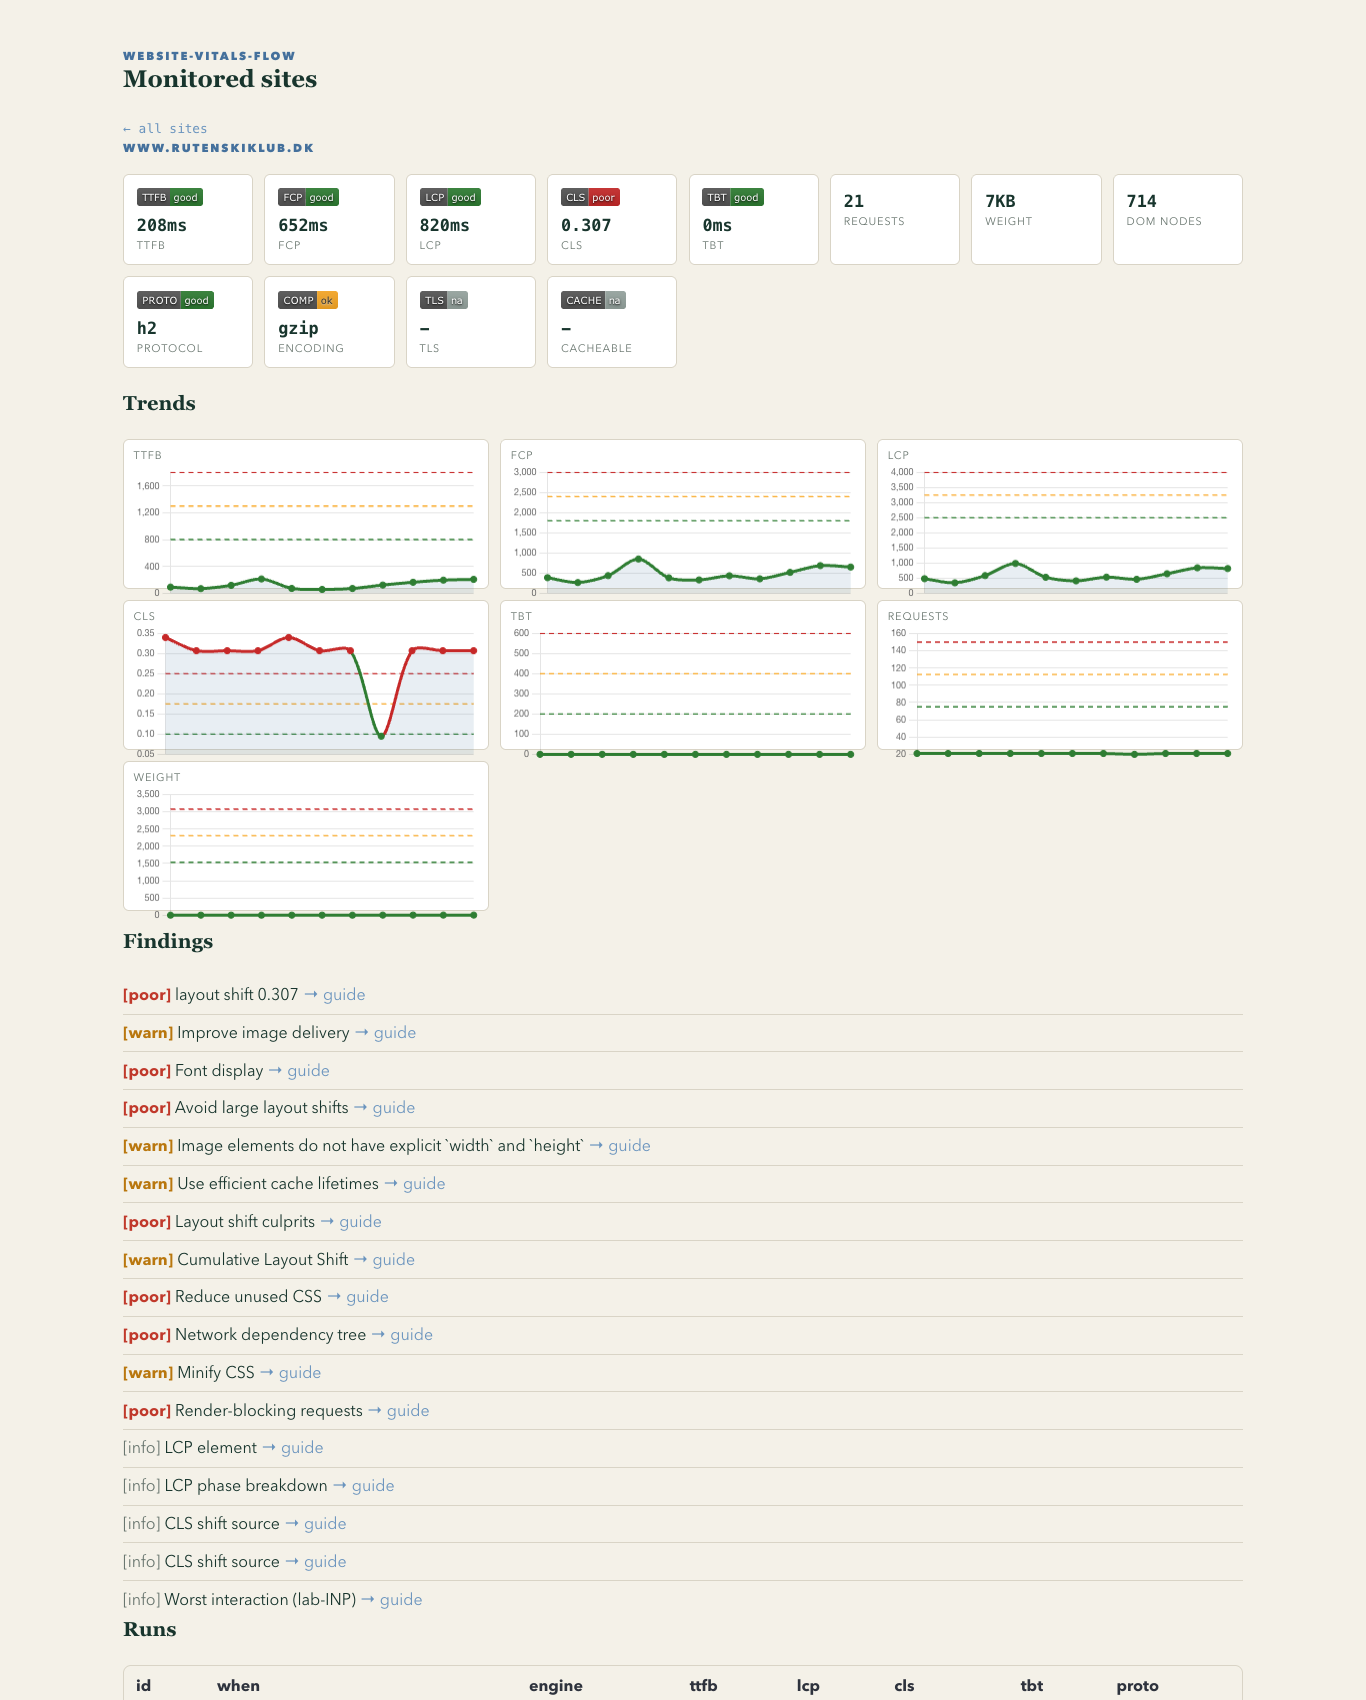
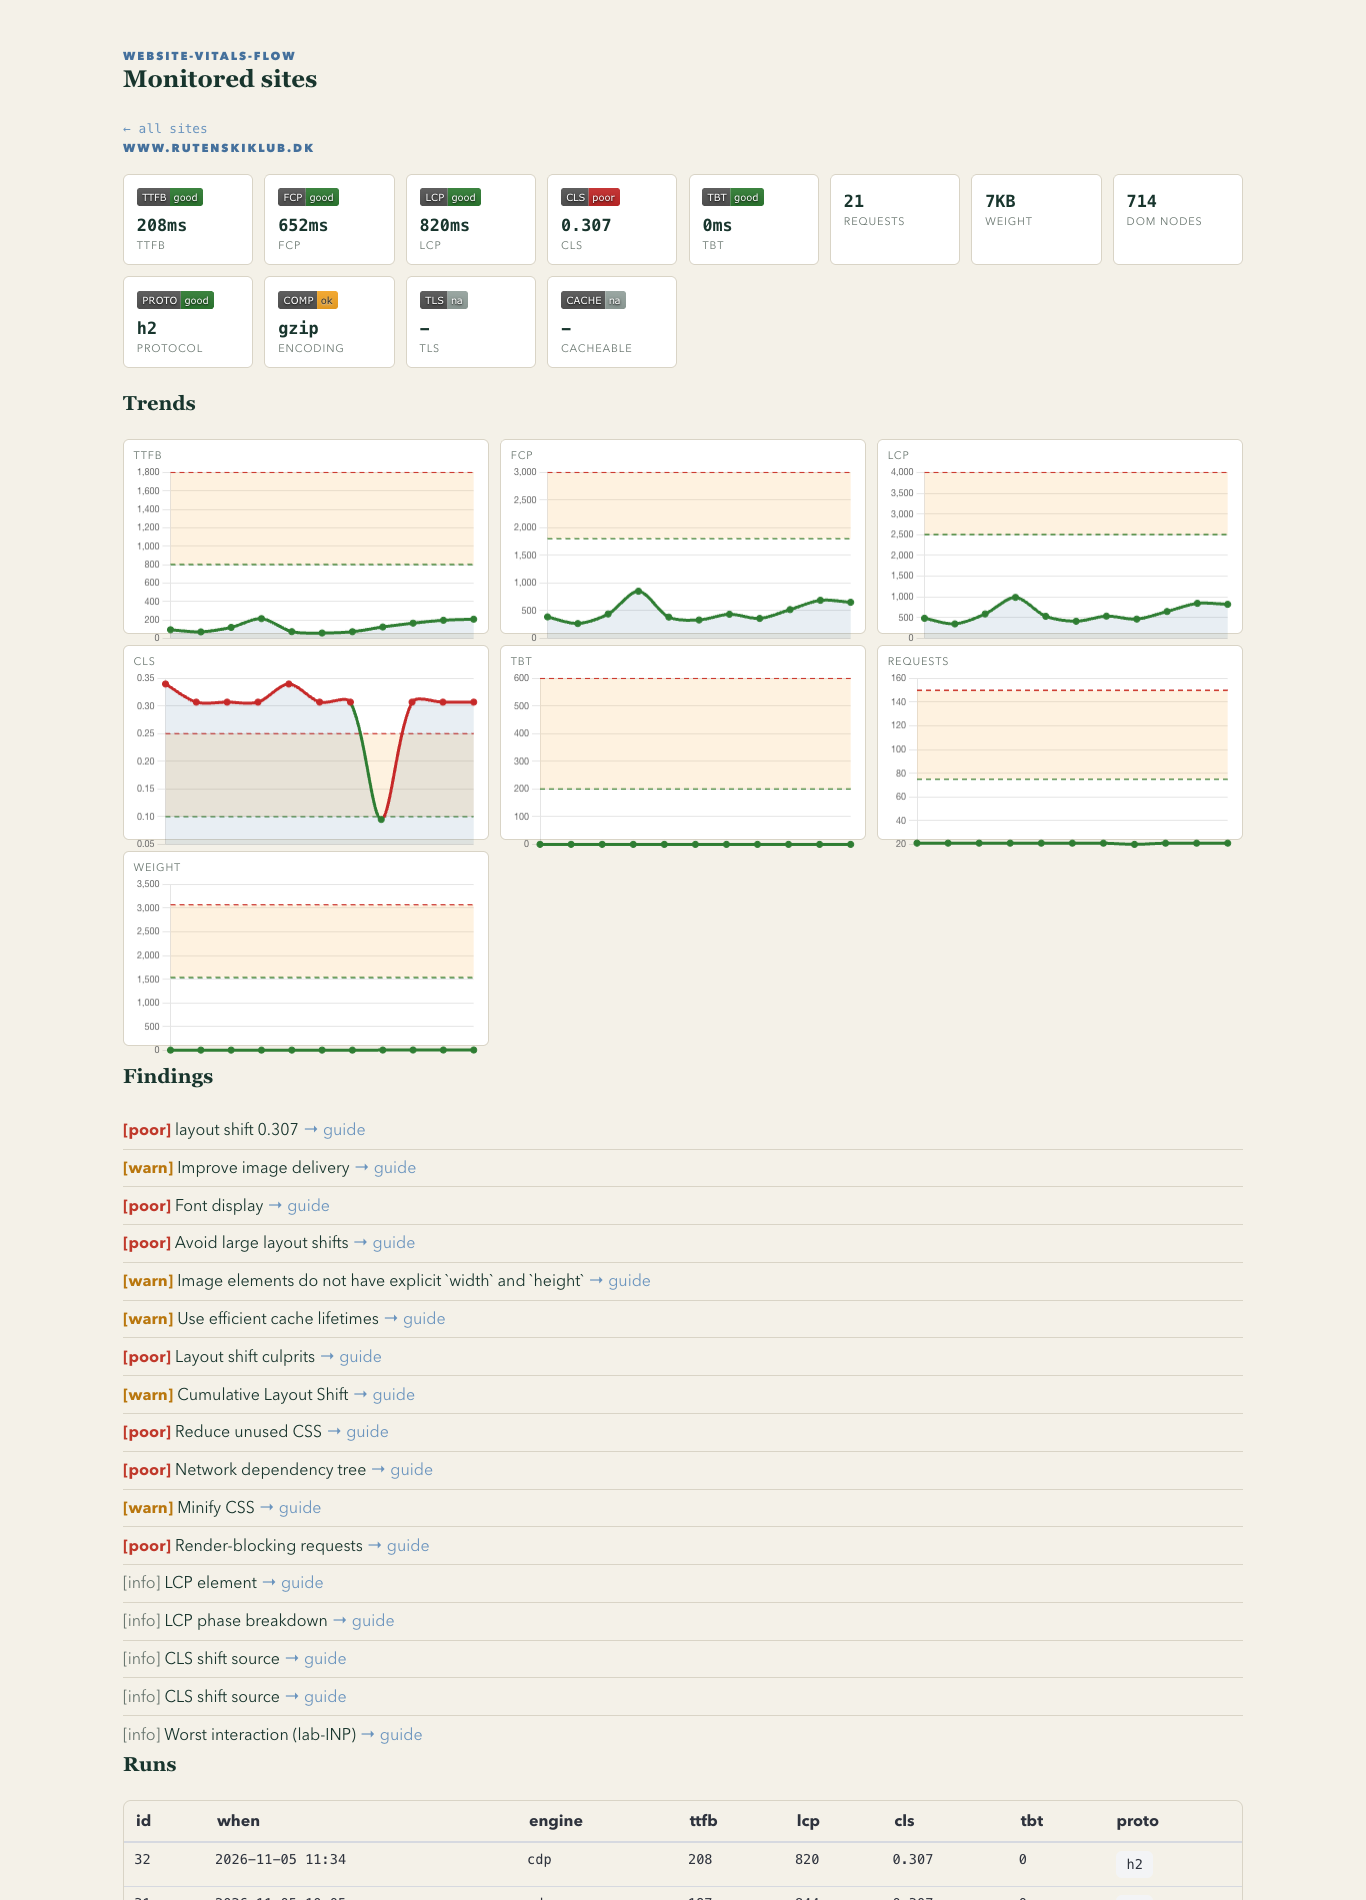
Trends: amber zone fill + taller cards
- yellow midpoint line replaced by a shaded amber band between the
  good/poor cutoffs (stacked-fill, no annotation plugin needed)
- trend cells 150px -> 195px / canvas 120 -> 160px so the charts
  breathe; CLS zone crossing reads clearly with the red line

Generated with [Devin](https://devin.ai)

diff --git a/internal/server/static/app.js b/internal/server/static/app.js
@@ -122,8 +122,12 @@ document.addEventListener('alpine:init', () => {
           }},
           tension:.3,fill:true}];
         if(sp.b){ds.push(
+          // amber zone: fill between the two cutoff values
+          {data:labels.map(()=>sp.b[0]),borderWidth:0,pointRadius:0,fill:false},
+          {data:labels.map(()=>sp.b[1]),borderWidth:0,pointRadius:0,
+            fill:'-1',backgroundColor:'rgba(249,165,37,.14)'},
+          // boundary dashes
           {data:labels.map(()=>sp.b[0]),borderColor:'#2e7d32',borderDash:[5,4],pointRadius:0,borderWidth:1.4},
-          {data:labels.map(()=>(sp.b[0]+sp.b[1])/2),borderColor:'#f9a825',borderDash:[5,4],pointRadius:0,borderWidth:1.4},
           {data:labels.map(()=>sp.b[1]),borderColor:'#c62828',borderDash:[5,4],pointRadius:0,borderWidth:1.4});}
         this.charts[sp.id]=new Chart(el,{type:'line',
           data:{labels,datasets:ds},

diff --git a/internal/server/static/style.css b/internal/server/static/style.css
@@ -73,5 +73,5 @@ body { min-height: 100vh; background: var(--wvf-paper); color: var(--wvf-ink); }
 .trend-grid { display:grid; grid-template-columns:repeat(auto-fill,minmax(300px,1fr));
   gap:.7em; margin-bottom:1.2em; }
 .trend-cell { border:1px solid var(--wvf-line); border-radius:6px; padding:.5em .6em .2em;
-  background:var(--wvf-bg-soft,#fff); height:150px; }
-.trend-cell canvas { height:120px; }
+  background:var(--wvf-bg-soft,#fff); height:195px; }
+.trend-cell canvas { height:160px; }
